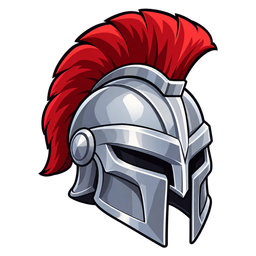
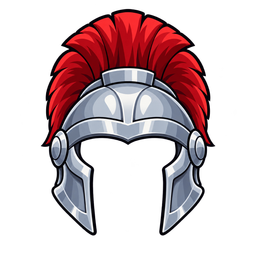
Redraw Warrior Helmet with front-facing open-face design
- Regenerate warriorHelmet sprite with a broad transparent face opening
- Repack items atlas with the updated sprite
- Update the prompt record and items doc to describe the new design

diff --git a/web/docs/items.md b/web/docs/items.md
@@ -170,3 +170,5 @@ The original 83 individual sprites were generated with the **built-in imagegen t
 The shared art direction is a single centered inventory object on a genuinely transparent background, thick near-black outlines, colorful flat cel shading, restrained highlights, and a silhouette readable at 48 pixels. Prompts exclude labels, logos, backgrounds, borders, and cast shadows. Subjects distinguish similar items, such as the plain army Helmet, crested Warrior Helmet, and wolf-pelt Wolf Helmet.
 
 Engineering adds ten item sprites using code-native vector art from [generate-engineering-art.ts](../scripts/generate-engineering-art.ts), rasterized with Sharp and packed into the same atlas. See [Engineering](engineering.md) for all new items and mechanics.
+
+Warrior Helmet uses a forward-facing view and a broad open face area, following Wolf Helmet's framing. Its silver shell, cheek guards, and red crest retain its identity; the face opening is transparent so it can frame a character's face. The updated sprite was edited with the built-in imagegen tool using both helmets as references, then resized to 256 × 256 and repacked into the atlas.
